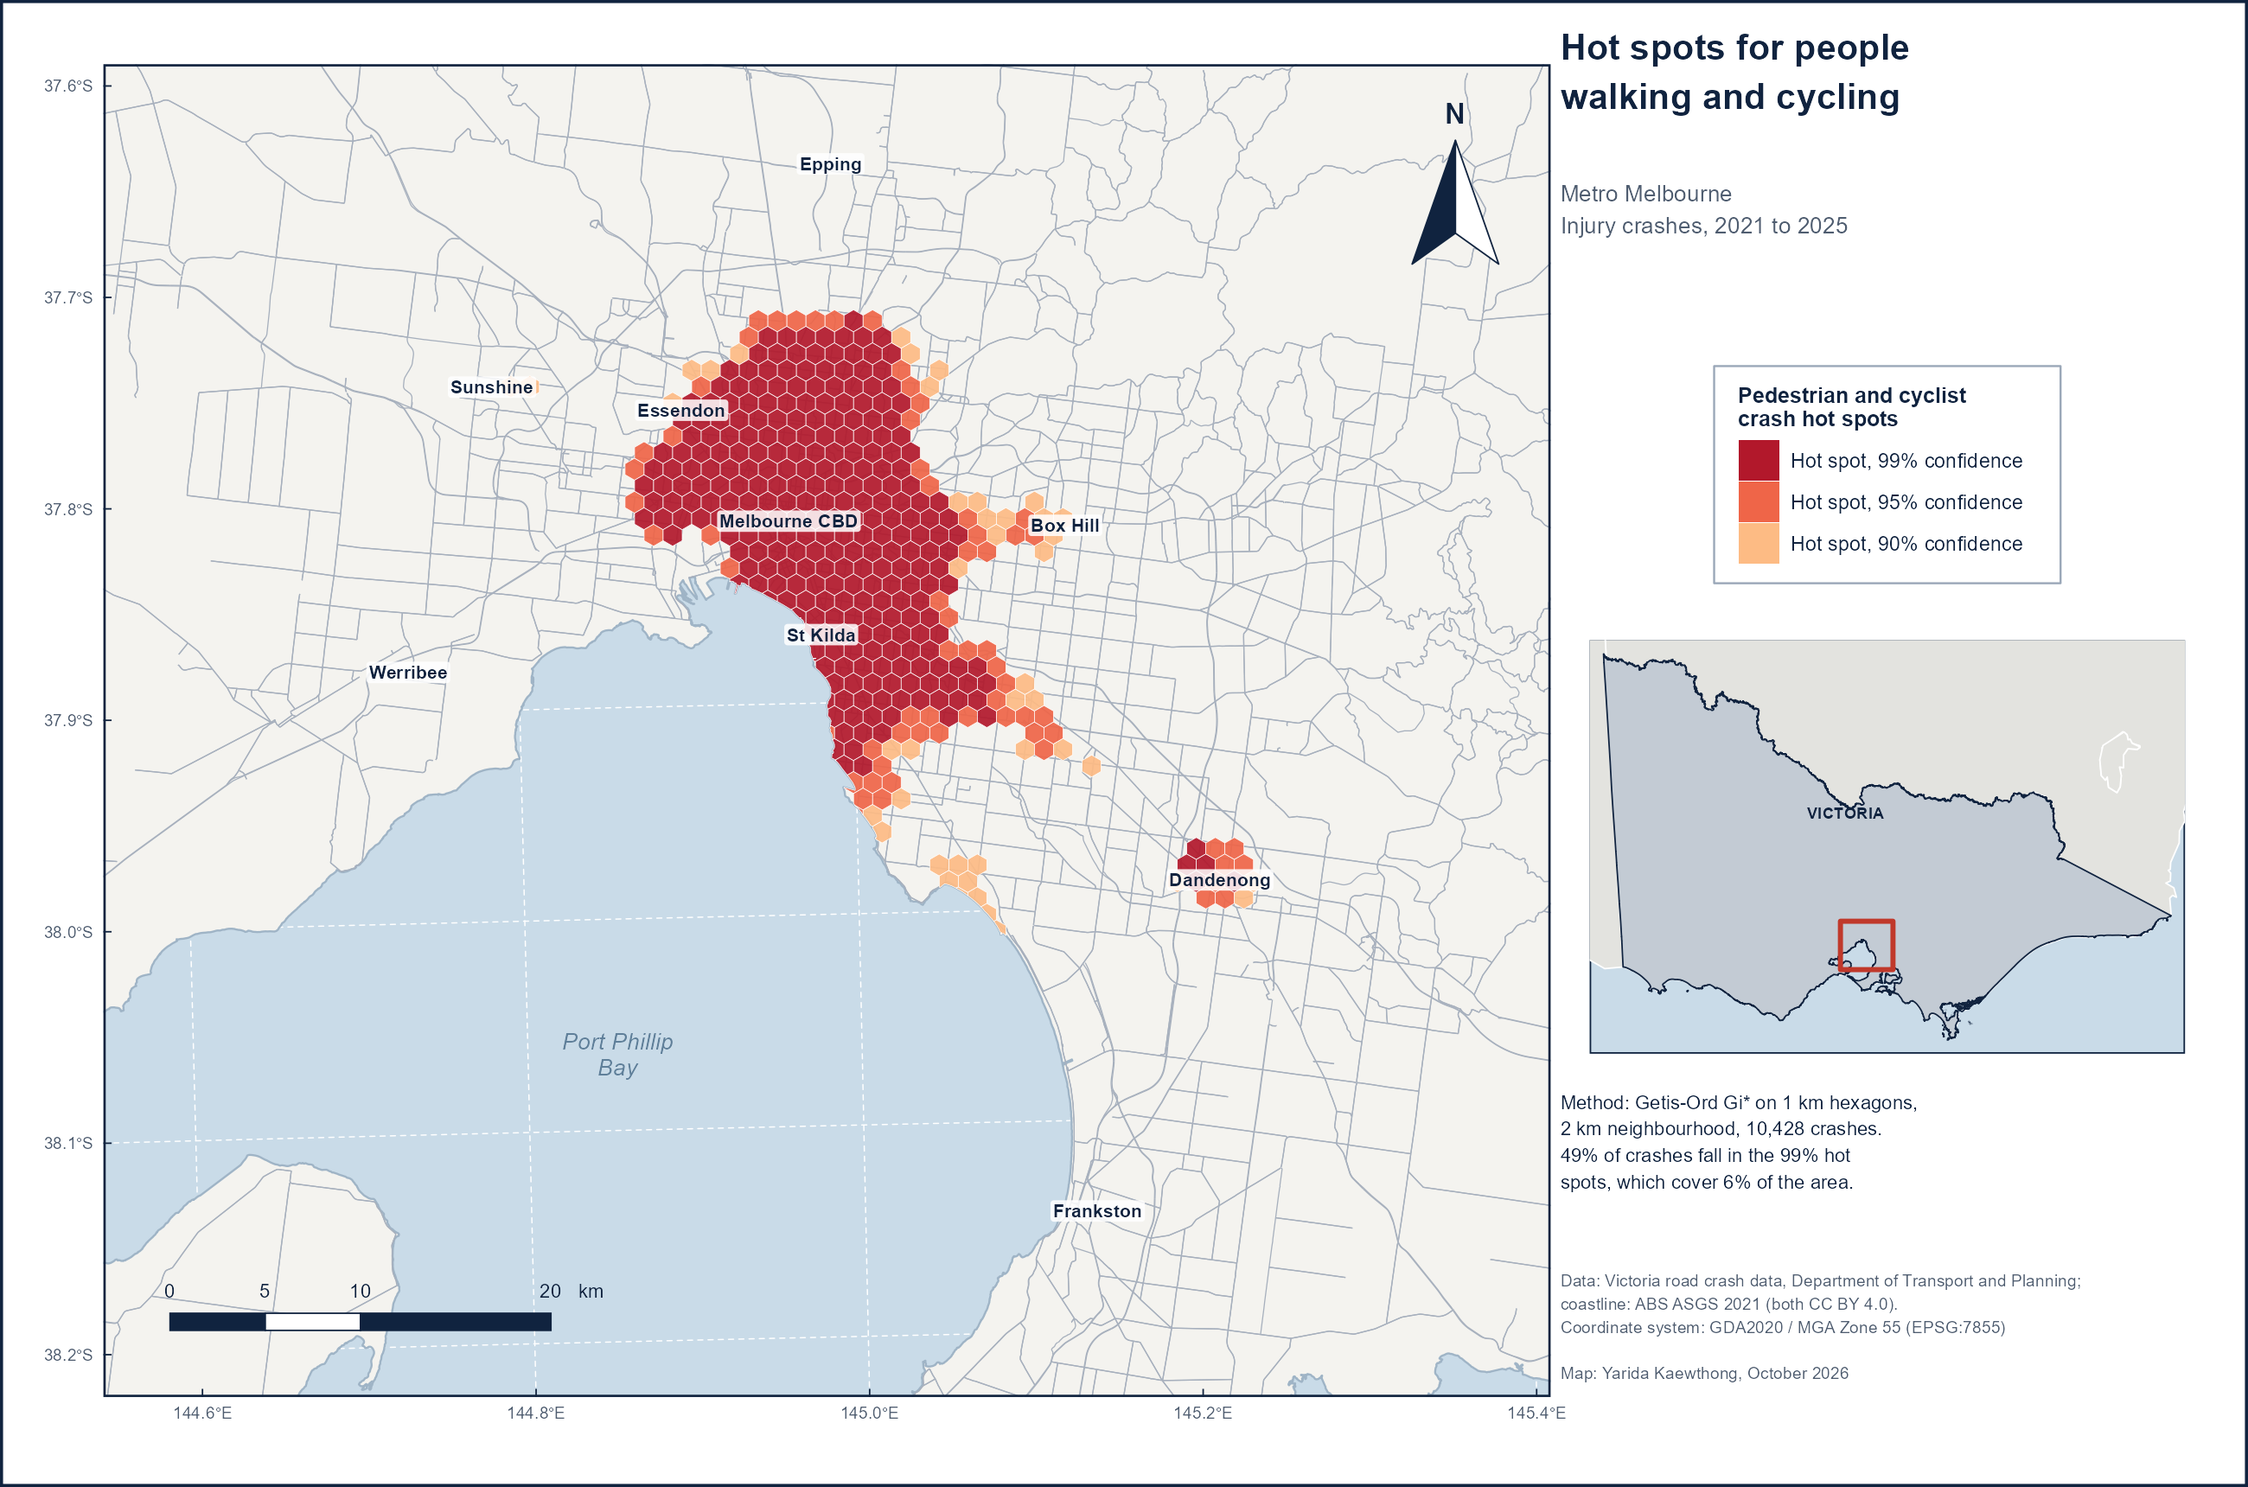
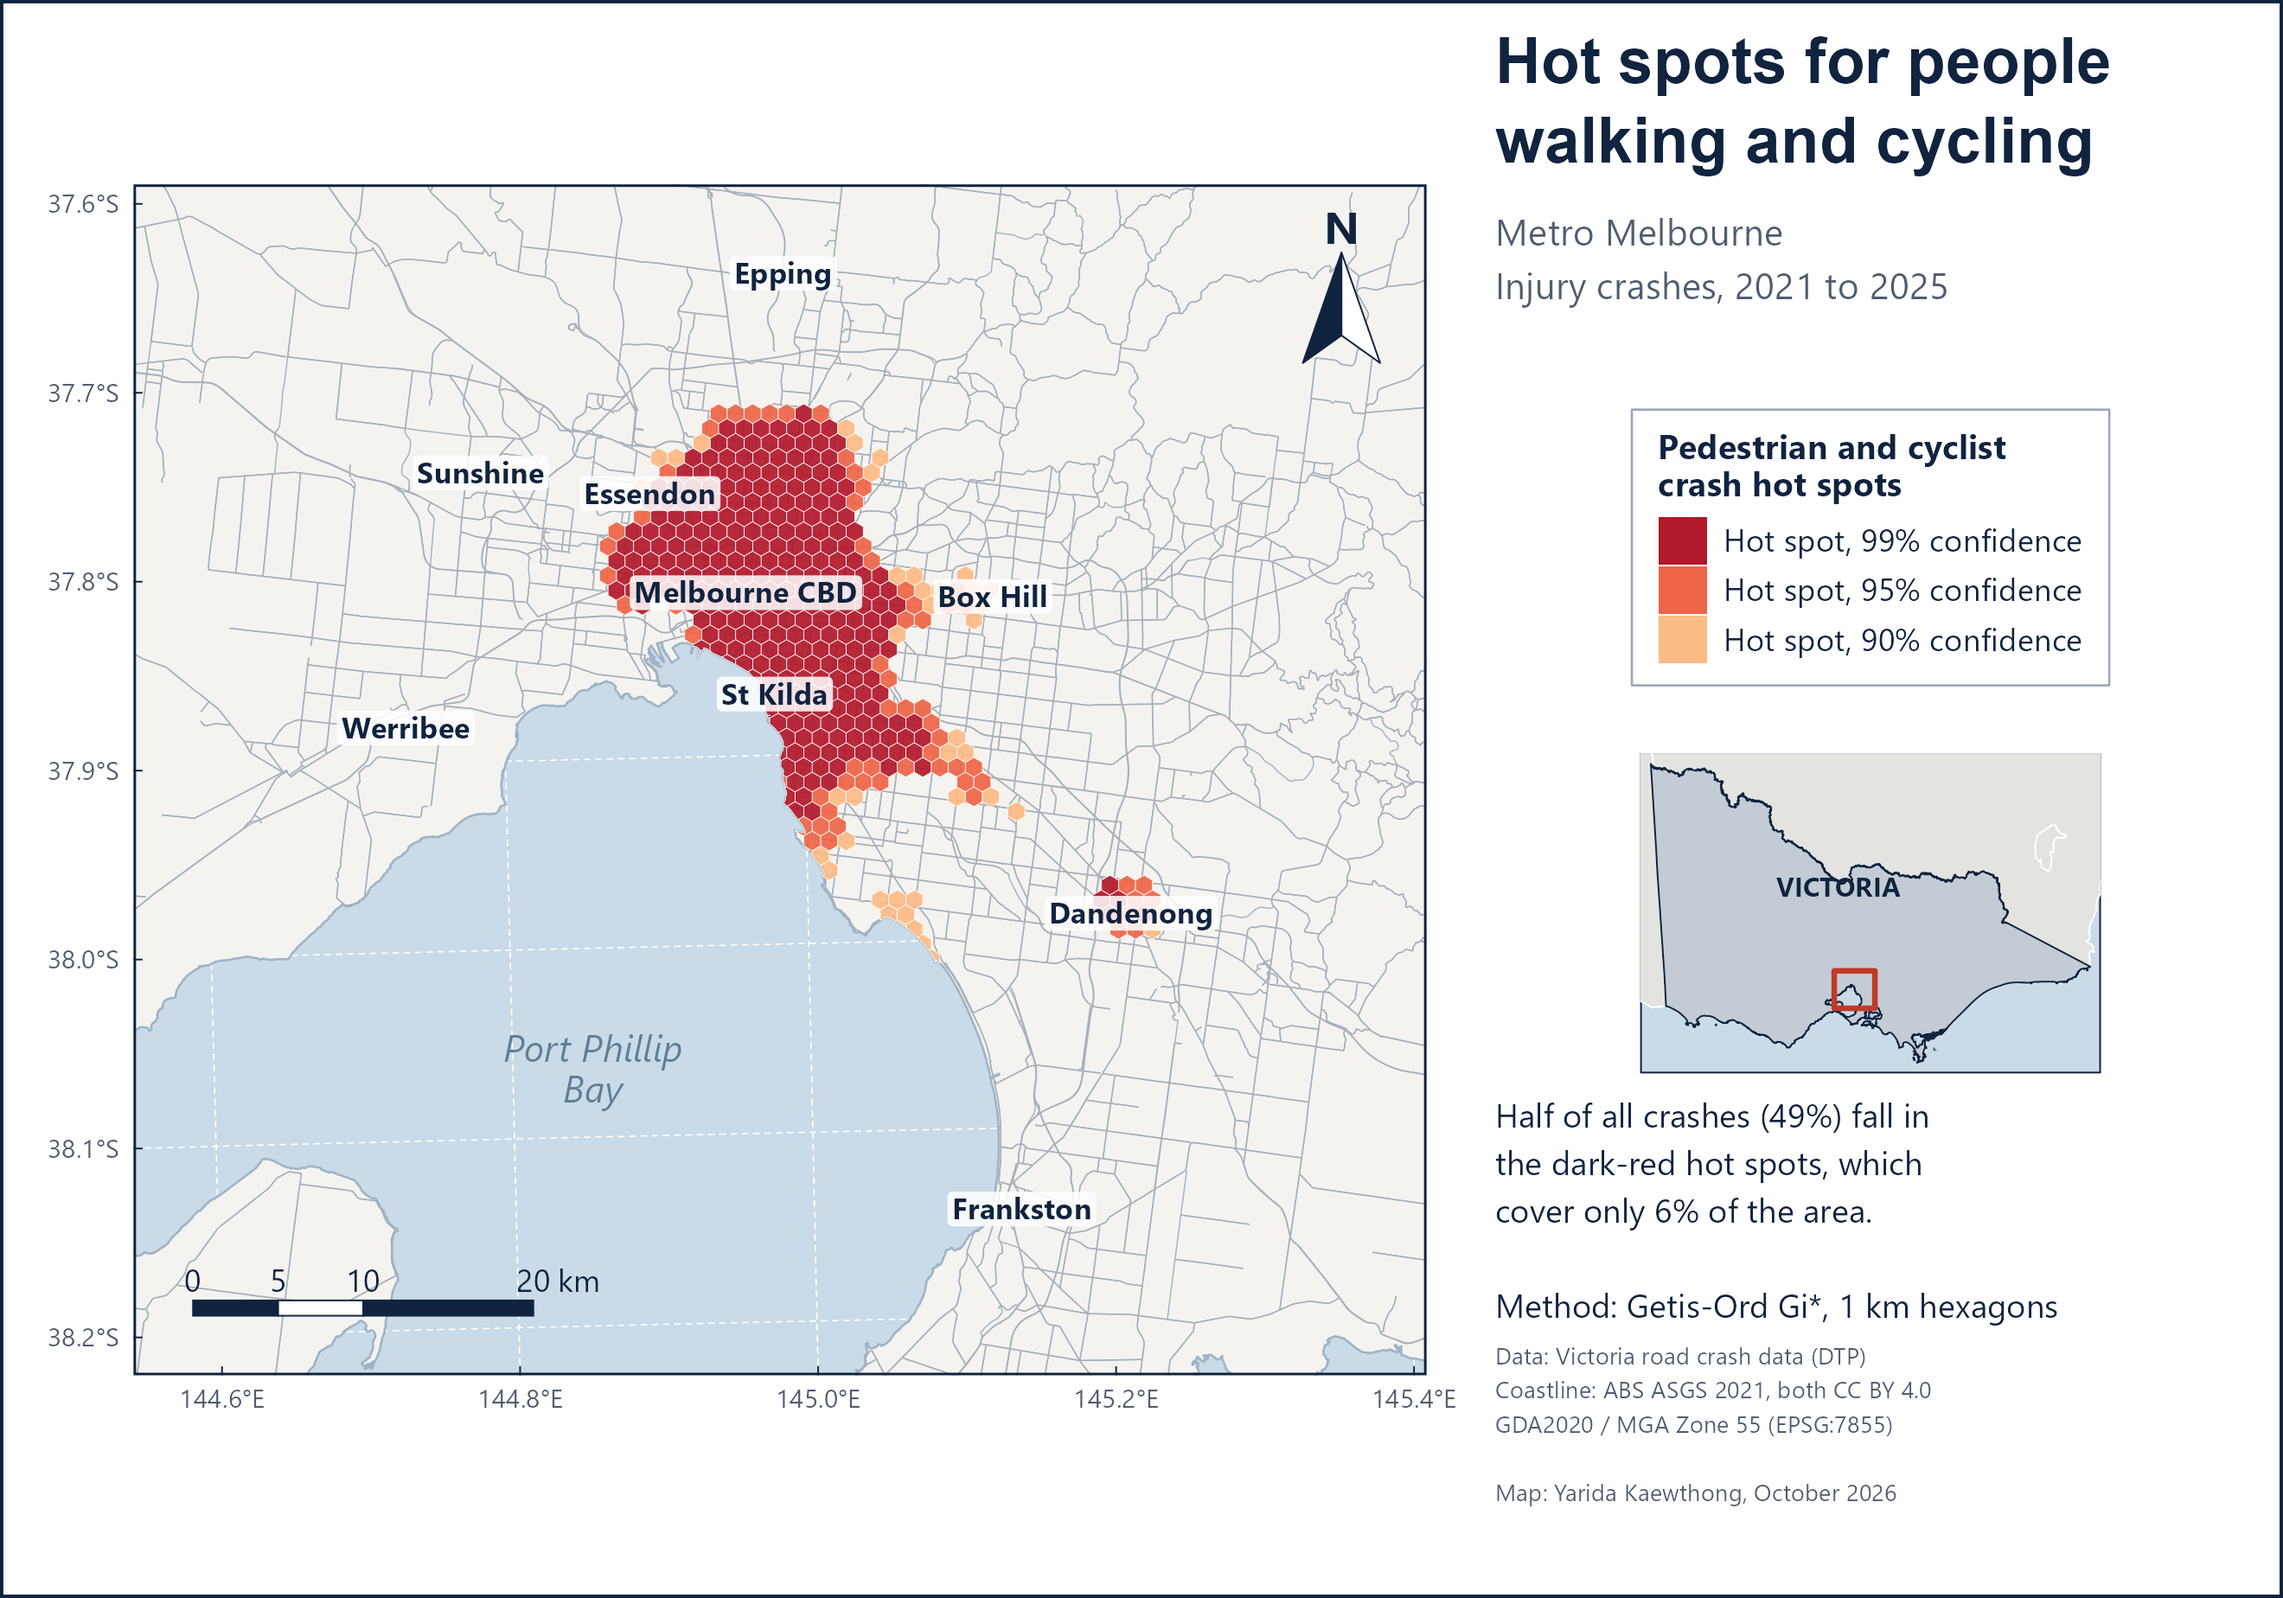
Make Melbourne map layouts easier to read
Larger text throughout, Segoe UI body text with Bahnschrift titles,
plain-English summary in the side panel, and more space between legend,
locator map and credits.

diff --git a/melbourne-crash.html b/melbourne-crash.html
@@ -156,11 +156,11 @@
             <h2>On the map</h2>
             <p>Each map is laid out like a GIS export: framed map with latitude and longitude, north arrow, scale bar, legend, a locator map of Victoria and full credits. Click any map to enlarge it.</p>
             <figure class="study-hero">
-              <a href="images/melbourne-hotspots.png" target="_blank" rel="noreferrer"><img src="images/melbourne-hotspots.png" alt="Map layout of metro Melbourne with blue sea and grey land. Red hexagon hot spots cover the CBD, inner north and bayside suburbs to St Kilda and beyond, with a smaller cluster at Dandenong. Includes north arrow, scale bar, legend and a locator map of Victoria." loading="lazy" width="2600" height="1720" /></a>
+              <a href="images/melbourne-hotspots.png" target="_blank" rel="noreferrer"><img src="images/melbourne-hotspots.png" alt="Map layout of metro Melbourne with blue sea and grey land. Red hexagon hot spots cover the CBD, inner north and bayside suburbs to St Kilda and beyond, with a smaller cluster at Dandenong. Includes north arrow, scale bar, legend and a locator map of Victoria." loading="lazy" width="2640" height="1848" /></a>
               <figcaption><strong>Fig 1</strong>Statistically significant hot spots for pedestrian and cyclist crashes, 2021&ndash;2025. Coastline: ABS ASGS 2021.</figcaption>
             </figure>
             <figure class="study-hero">
-              <a href="images/melbourne-inner.png" target="_blank" rel="noreferrer"><img src="images/melbourne-inner.png" alt="Map layout of inner Melbourne on a 500 m hexagon grid, darker red where more pedestrian and cyclist crashes happened. The darkest cells are in the CBD along Elizabeth St and along Chapel St. Includes north arrow, scale bar, legend and a locator map." loading="lazy" width="2600" height="1720" /></a>
+              <a href="images/melbourne-inner.png" target="_blank" rel="noreferrer"><img src="images/melbourne-inner.png" alt="Map layout of inner Melbourne on a 500 m hexagon grid, darker red where more pedestrian and cyclist crashes happened. The darkest cells are in the CBD along Elizabeth St and along Chapel St. Includes north arrow, scale bar, legend and a locator map." loading="lazy" width="2640" height="1848" /></a>
               <figcaption><strong>Fig 2</strong>Inner Melbourne street by street: the five worst 500&nbsp;m cells are on Elizabeth St and Chapel St.</figcaption>
             </figure>
           </section>
